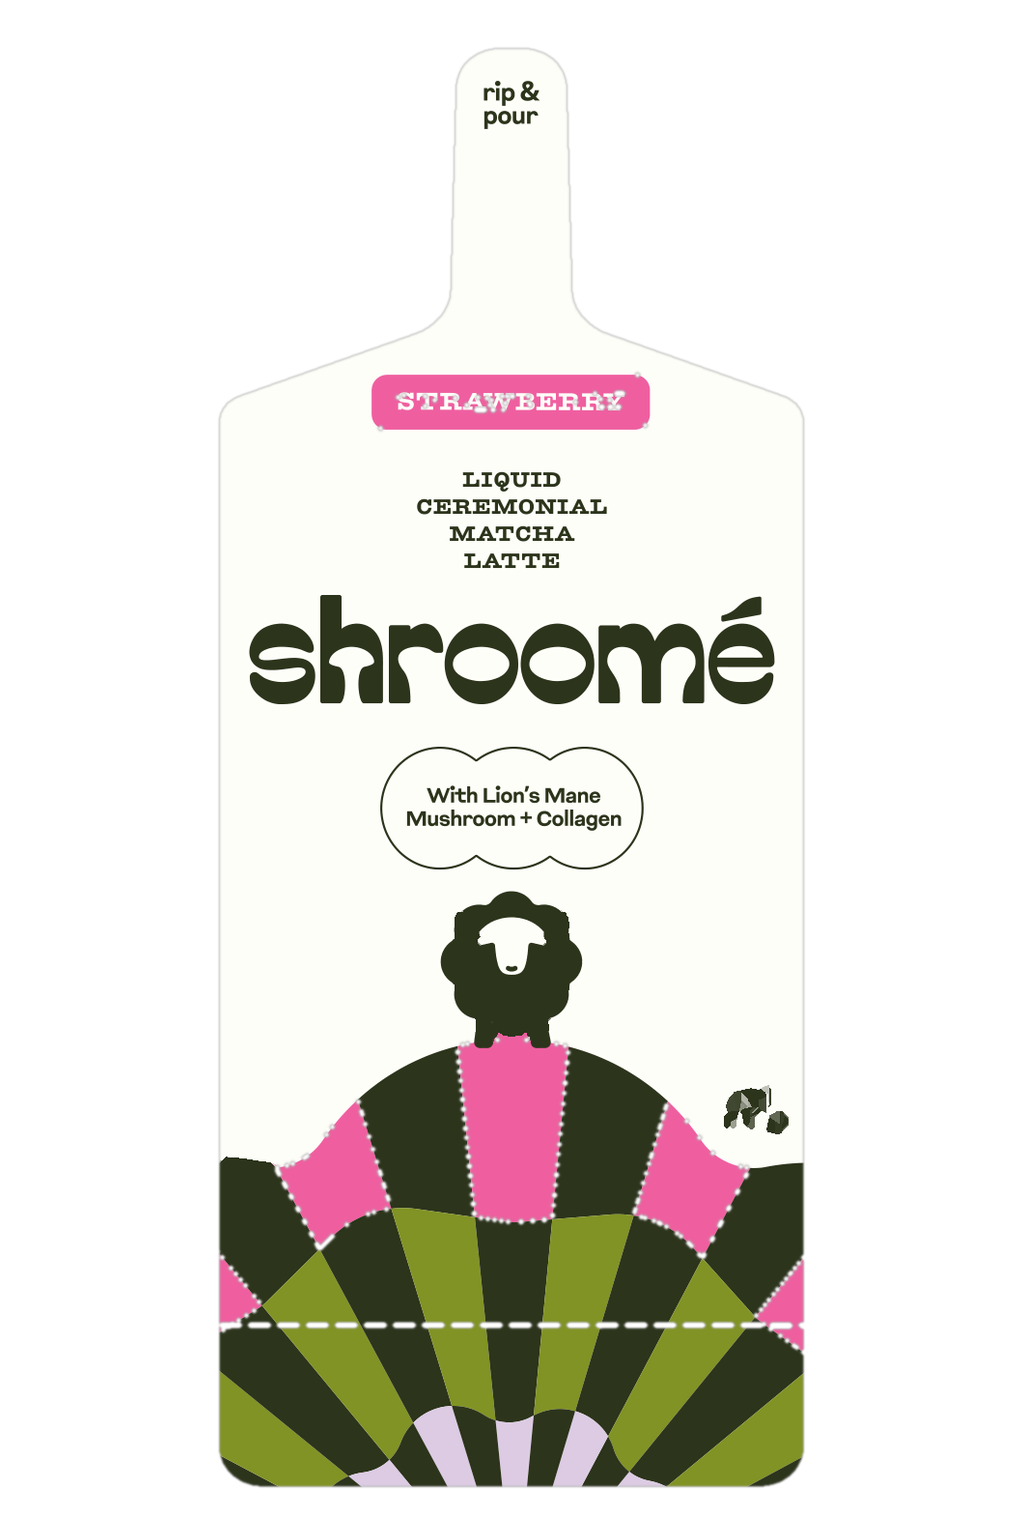
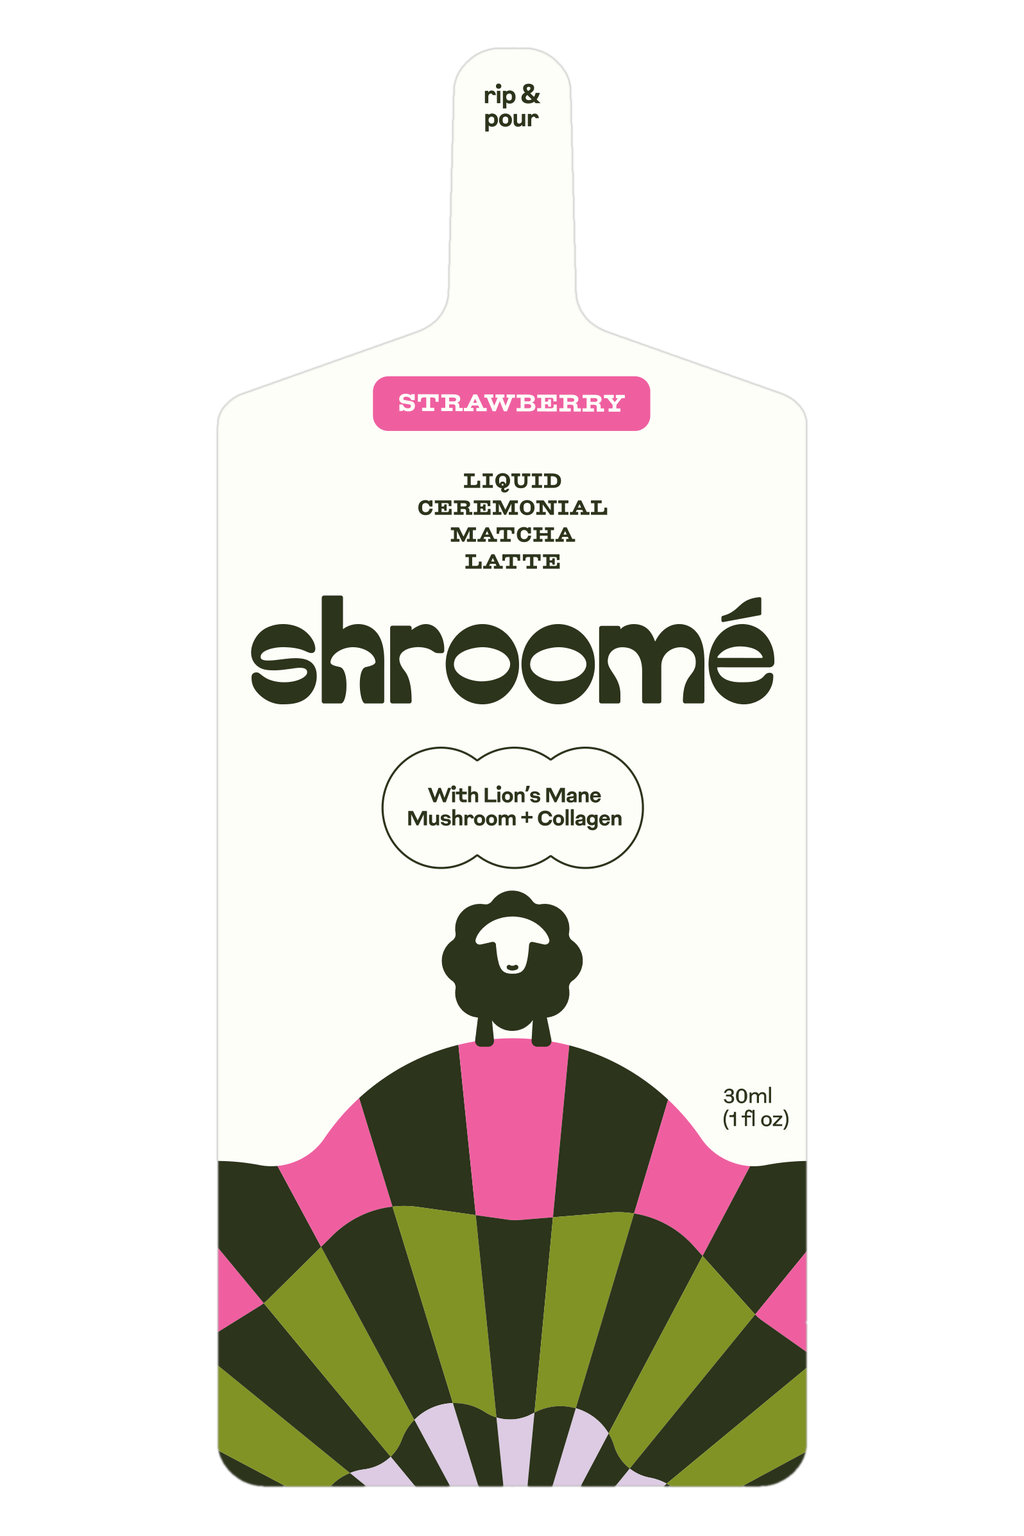
Clean product photography standard — pure R02 art on flat Purple, dielines stripped at vector level
Replaces the composited/graded hero treatment across all 6 Shopify products and
public/ site assets. Dieline annotations removed from the PDF content streams
(no pixel inpainting), artwork re-rendered at 6x. One consistent look: product
large and centered on Bolden Purple #E3D5F7 with a single soft shadow.
Includes brand-manager audit fixes (casing, reishi claims, stale color doc).

Claude-Session: https://claude.ai/code/session_01H6vRA2DV1C71cNRYt4um3K

diff --git a/app/blog/posts.ts b/app/blog/posts.ts
@@ -22,7 +22,7 @@ export const blogPosts: BlogPost[] = [
     readTime: "3 min read",
     category: "Press",
     metaDescription:
-      "shroomé launches 9 original matcha recipes featuring ceremonial matcha, lion's mane, reishi, and collagen. Each recipe is ready in 15 seconds with a single sachet. Available at drinkshroome.com.",
+      "shroomé launches 9 original matcha recipes featuring ceremonial matcha, lion's mane, and collagen. Each recipe is ready in 15 seconds with a single sachet. Available at drinkshroome.com.",
     ogImage: "/og-blog-press-recipes.jpg",
     author: "shroomé",
     content: `
@@ -255,7 +255,7 @@ Web: <a href="https://www.drinkshroome.com">drinkshroome.com</a>
 
 <p>Matcha's primary antioxidant is EGCG (epigallocatechin gallate), a catechin that has been extensively studied for its anti-inflammatory and cellular protection properties. Because you're consuming the entire ground tea leaf rather than just a brewed extract, a single serving of matcha delivers roughly 10 times the antioxidants of a cup of steeped green tea.</p>
 
-<p>Over the long term, these antioxidants support cardiovascular health, cellular repair, and reduction of oxidative stress. Combined with functional mushroom extracts — like the lion's mane and reishi in shroom&eacute; that provide <a href="/blog/what-are-beta-glucans-mushroom-compound">immune-supporting beta-glucans</a> — you're getting a morning drink that does more than just wake you up.</p>
+<p>Over the long term, these antioxidants support cardiovascular health, cellular repair, and reduction of oxidative stress. Combined with the lion's mane extract in shroom&eacute; — a functional mushroom studied for its <a href="/blog/what-are-beta-glucans-mushroom-compound">immune-supporting beta-glucans</a> — you're getting a morning drink that does more than just wake you up.</p>
 
 <h2>The Social Factor</h2>
 
@@ -1769,7 +1769,7 @@ Web: <a href="https://www.drinkshroome.com">drinkshroome.com</a>
 
 <h2>How Shroom&eacute; Puts This Into Practice</h2>
 
-<p>We built <a href="/">shroom&eacute;</a> around the idea that adaptogens should be part of your daily routine — not something you have to remember to take separately. Every serving combines lion's mane, reishi, and chaga with ceremonial-grade matcha, creating a single drink that delivers focus, calm energy, and immune support in about 15 seconds of prep time.</p>
+<p>We built <a href="/">shroom&eacute;</a> around the idea that adaptogens should be part of your daily routine — not something you have to remember to take separately. Every serving combines lion's mane with ceremonial-grade matcha, creating a single drink that delivers focus, calm energy, and immune support in about 15 seconds of prep time.</p>
 
 <p>The matcha provides the caffeine and L-theanine for immediate energy and focus. The functional mushrooms provide the adaptogenic support that builds over time. Together, they cover both the short game (feeling alert right now) and the long game (supporting your body's stress response, cognitive function, and immunity over weeks and months of consistent use).</p>
 

diff --git a/Brand/brand-manager-audit.md b/Brand/brand-manager-audit.md
@@ -1,0 +1,67 @@
+# Brand Manager — Zero-Tolerance Consistency Audit (post-Bolden re-skin)
+
+> Date: 2026-07-15
+> Author: Brand Manager (Claude session)
+> Scope: entire brand surface — `app/`, `Marketing/`, `Product/`, `Executive/`, `scripts/`, `Brand/`
+> Canon: `Brand/bolden-identity-extraction.md`, `Brand/Photography & Image Direction/image-guidelines.md`, `app/lib/brand.ts` (Bolden tokens: Green #2D341A ink · Retro #FEFFF8 canvas · Matcha #7A881F accent · Purple #E3D5F7 · Strawberry #FF6DC7 · Vanilla #E4CB9F · Mango #FA9427)
+
+---
+
+## Scorecard by category
+
+| # | Category | Verdict |
+|---|---|---|
+| 1 | Wordmark / casing discipline | **PASS + FIXED** (6 fixes) |
+| 2 | Tagline & mantra consistency | **PASS + FLAGGED** (no drift-to-fix; 3 flags) |
+| 3 | Stat-row & claims discipline | **FIXED** (4 fixes) |
+| 4 | Voice (no ritual/ceremony; lowercase; Mé she/her) | **PASS** |
+| 5 | Flavor color discipline (no old pink/lavender) | **FIXED** (5 files) |
+| 6 | Cross-artifact drift (theme / email / OG) | **PARTIAL FIX + FLAGGED** |
+
+Brand-token sync check (`node scripts/check-brand-sync.mjs`): **PASS** — `app/lib/brand.ts` ↔ `app/globals.css` in sync.
+
+---
+
+## Fixes applied
+
+### 1 — Wordmark / casing
+- `app/lib/emails.ts` (footer copyright): `© <year> shroome` → `shroomé`.
+- `app/api/waitlist/route.ts` (email from-name): `Shroomé Waitlist` → `shroomé Waitlist` (lowercase brand voice; not a grammatical sentence start).
+- `Marketing/Social/tiktok-scripts.md` (×2, stage directions): `Shroome sachet` → `shroomé sachet`.
+- `Marketing/Email/Flows/01-Welcome-Flow.html`: `<title>`, sachets `alt` text, and final CTA `EXPLORE SHROOME` → `EXPLORE SHROOMÉ`.
+- `Marketing/Email/Flows/02-Whats-Inside-Flow.html`: `<title>` and sachet `alt` text → `shroomé`.
+- (Footers in both flow files already carried `shroomé` + `ZSQUARED INC` from the CMO's in-place cleanup.)
+
+### 3 — Stat-row & claims
+- `app/blog/posts.ts` (3 passages) claimed reishi/chaga are **in shroomé** — the R02 formula is **lion's mane only** (reishi/cordyceps were the superseded April artwork per extraction §f). Corrected the product-ingredient claims to lion's mane only:
+  - launch-recipes description: removed reishi from the product ingredient list.
+  - antioxidants passage: "lion's mane and reishi in shroomé that provide immune-supporting beta-glucans" → "the lion's mane extract in shroomé — a functional mushroom studied for its immune-supporting beta-glucans" (kept the educational beta-glucan link; removed the product ingredient error).
+  - adaptogen-routine passage: "combines lion's mane, reishi, and chaga" → "combines lion's mane".
+- `Marketing/Email/Flows/02-Whats-Inside-Flow.html`: banner + strip beta-glucan phrasing ("200MG BETA GLUCANS" / "mushroom beta glucans") had already been neutralised by the CMO pass to "200MG LION'S MANE" / "lion's mane fruiting-body extract" — verified compliant.
+- **Not changed (correctly out of scope):** the 500mg/5g/10g doses in `Marketing/Community/reddit-posts-ready.md` and `community-playbook.md` are the *author-personas'* own nootropic stacks and category education, not shroomé's stat row. The generic reishi/chaga/cordyceps education throughout `app/blog/posts.ts` (not asserting they are in the product) stays.
+
+### 5 — Flavor color discipline (old palette purge)
+- `Brand/Color & Typography/brand-colors.md`: **fully rewritten** from the old Navy/Cream/Lime/Pink/Lavender system to the Bolden palette (this doc still declared itself the active color reference while contradicting the re-skin — the single biggest stale-canon landmine). Typography section kept (Instrument Serif/Syne is the correct interim OFL stack) with a Tarnac note added.
+- `Brand/Photography & Image Direction/image-guidelines.md`: cloud tint names `Lavender/Blush/Soft Lavender` → Bolden Purple/Vanilla/Strawberry-blush; `Cream (#FDF4EE)` → `Retro (#FEFFF8)`; shadow "warm brown/navy" → "warm brown/deep green"; email-header channel row → Purple/Vanilla.
+- `Marketing/Partnerships/collab-pipeline.md`: the Mé "never off-palette" guardrail listed the OLD palette hexes — replaced with the Bolden palette and Mé's delivered colorways (Matcha/Green body, Retro-cream cap face).
+- `Marketing/Email/Flows/01-Welcome-Flow.html` + `02-Whats-Inside-Flow.html`: mechanical 1:1 HEX swap to Bolden tokens (`#1B1F3B→#2D341A`, `#FDF4EE→#FEFFF8`, `#C8FF3A→#7A881F`, `#E8936D→#E4CB9F`, `#FFB7D1→#FF6DC7`, `#D4B8E0→#E3D5F7`, `#E8D5F0→#E3D5F7`). No old pink/lavender/lime/navy/cream hexes remain anywhere in the brand surface.
+
+### 6 — Cross-artifact drift
+- Email flow HTML files (01/02): in addition to the palette swap above, forced all CTA pills to the canonical **Green-button + Retro-text** lockup (they had matcha-on-green / green-on-matcha small text at ~3.3:1). Updated each file's top DEPRECATED banner to state honestly that palette hexes + CTA + casing are now fixed but the **layout rebuild is still owed**.
+- Verified already-consistent (no fix needed): Shopify theme payloads (`settings_data.patch.json`, `index.template.json`, `announcement.patch.md`) on Bolden schemes + correct stat row/mantra; `app/lib/emails.ts` reskinned; OG renderers (`app/opengraph-image.tsx`, `app/blog/[slug]/opengraph-image.tsx`) consume BRAND tokens.
+
+---
+
+## Flagged for founder (ambiguous — not auto-fixed)
+
+1. **Email flow HTML layout rebuild still owed.** `Marketing/Email/Flows/01-Welcome-Flow.html` and `02-Whats-Inside-Flow.html` are now on Bolden colors and claim-clean, but their *layout* is still a direct port of the old navy-bar/stat-card template — not the reskinned flowing-canvas design in `app/lib/emails.ts`. They are marked DEPRECATED; rebuild from `Marketing/Email/Flows/engagement-capture-flows.md` + `brand.ts` before any Klaviyo send. (These are handoff artifacts, not the live send path — `emails.ts` is what the app actually sends.)
+
+2. **Live SMS copy lives outside the repo.** `app/api/waitlist/route.ts:228` documents the actual Klaviyo keyword-reply text as "hey, it's zack from shroome" — lowercase, **no é**. Fix in Klaviyo. Also: `app/welcome/layout.tsx` SEO `keywords` still lists "reishi", which can imply a product ingredient — recommend dropping it (the product is lion's mane only).
+
+3. **Two canon variants deliberately in circulation — ratify the spec.**
+   - **Mantra punctuation:** three forms coexist — `pour. swirl. glow.` (periods; the locked web line), `pour / swirl / glow` (an established creative "action-sequence" treatment used in ad end-cards, LP eyebrows, segment decks), and `pour, swirl, glow` (commas, in running Shopify/product prose). No pack↔web cross-contamination found (pack "Pour. Swirl. Go." never leaked to a web asset, and web "glow." never leaked to a pack file). Recommend the founder ratify whether the slash treatment is sanctioned or should collapse to periods.
+   - **"café energy. any address."** appears twice as a deliberate multi-location riff (`Marketing/Ads/ad-creative-library-v1.md`, `Marketing/Social/Content Calendar/tiktok-30-day.md`). Left intact as intentional wordplay — confirm it's sanctioned vs. the locked "Home Address."
+   - **Provenance** runs in two channel-correct forms: short-form web/marketing "Grown in Kyoto, Made in California" and long-form pack "Grown in Kyoto, Japan / Made in Huntington Beach, CA". Both are canon per extraction §f; a future artwork revision should pick one convention (and a matcha-origin CoA is still owed to substantiate "Kyoto").
+
+### Systemic note (not new to this audit)
+- **Matcha accent CTA contrast** is ~3.9:1 on Retro / ~3.3:1 on Green (extraction §b warning). All CTA lockups across the surface now use Green-button + Retro-text or large/bold accent type to compensate, but any new small-text-on-Matcha element will fail WCAG AA — keep the invert rule enforced.

diff --git a/Marketing/Partnerships/collab-pipeline.md b/Marketing/Partnerships/collab-pipeline.md
@@ -228,7 +228,7 @@ What we already have on the shelf — this is the first slide of every pitch:
 
 ## Guardrails — what a collab can never break
 
-1. **Mé is never distorted or off-palette.** No partner restyling of the character: no new facial features, no squash/stretch, no recolors outside the approved palette (Navy #1B1F3B, Cream #FDF4EE, Lime #C8FF3A, Pink #FFB7D1, Lavender #D4B8E0). Partner-colorway keychains recolor the *body*, never the face. Mé never endorses the partner's functional claims — Mé holds products, Mé doesn't promise outcomes.
+1. **Mé is never distorted or off-palette.** No partner restyling of the character: no new facial features, no squash/stretch, no recolors outside the approved Bolden palette (Green #2D341A, Retro #FEFFF8, Matcha #7A881F, Purple #E3D5F7, Strawberry #FF6DC7, Vanilla #E4CB9F). Mé's delivered colorways are Matcha or Green body with a Retro-cream mushroom-cap face. Partner-colorway keychains recolor the *body*, never the face. Mé never endorses the partner's functional claims — Mé holds products, Mé doesn't promise outcomes.
 2. **No powder imagery, ever.** shroomé is liquid rip-&-pour; any co-created content showing scoops, powder clouds, whisks-with-powder, or "mixing" visuals is rejected at storyboard stage. Partner matcha content must show pour, not powder.
 3. **Claims regime is non-negotiable** (see `Product/Compliance & Claims/claims-guidelines.md`). Co-branded copy uses only approved structure/function claims ("supports sustained focus," "supports skin health") with the FDA disclaimer where required. No "boosts immunity," no "clinically proven," no disease or drug-alternative language — even in the partner's caption, even in their voice. shroomé BD reviews every caption before it posts.
 4. **Sachet artwork is locked (R02).** The sachet face is never redesigned, over-printed, or co-logo'd. Co-branding lives on outer sleeves, bands, cartons, inserts, and cards — never on the sachet itself. One SKU face, everywhere, always.
